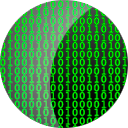
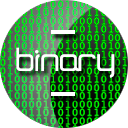
project renamed to binary

Changed region(s): [[0.125, 0.3438, 0.9375, 0.6562], [0.375, 0.2188, 0.625, 0.3125], [0.375, 0.7188, 0.625, 0.8125]]

diff --git a/README.md b/README.md
@@ -1,3 +1,3 @@
-#Binary Master
+#Binary
 
 A Firefox Os challange game about base conversion. 
